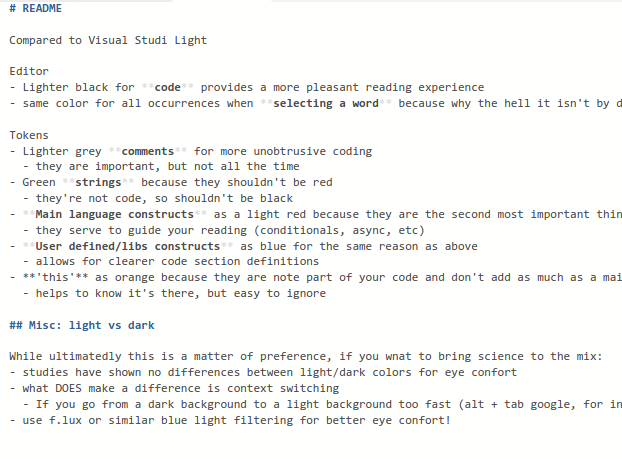
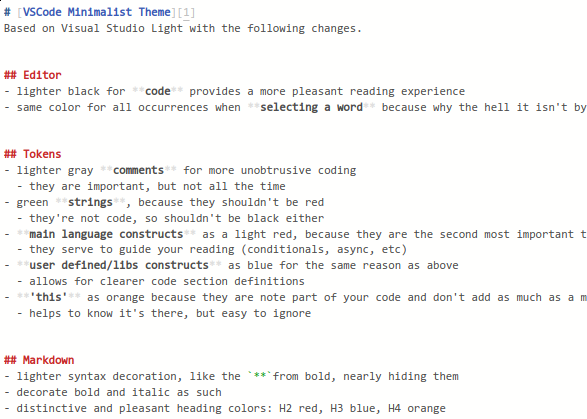
v1.2

Changed region(s): [[0.0, 0.0, 1.0, 0.9928]]

diff --git a/README.md b/README.md
@@ -1,38 +1,91 @@
-A minimalist theme for VS Code. You can find it in the [marketplace](https://marketplace.visualstudio.com/items?itemName=icetbr.vscode-theme-minimalist).
 
+# [VSCode Minimalist Theme][1]
 Based on Visual Studio Light with the following changes.
 
-### Editor
-- Lighter black for **code** provides a more pleasant reading experience
+
+## Editor
+- lighter black for **code** provides a more pleasant reading experience
 - same color for all occurrences when **selecting a word** because why the hell it isn't by default?
 
-### Tokens
-- Lighter gray **comments** for more unobtrusive coding
+
+## Tokens
+- lighter gray **comments** for more unobtrusive coding
   - they are important, but not all the time
-- Green **strings**, because they shouldn't be red
+- green **strings**, because they shouldn't be red
   - they're not code, so shouldn't be black either
-- **Main language constructs** as a light red, because they are the second most important thing in your code (second to the code itself)
+- **main language constructs** as a light red, because they are the second most important thing in your code (second to the code itself)
   - they serve to guide your reading (conditionals, async, etc)
-- **User defined/libs constructs** as blue for the same reason as above
+- **user defined/libs constructs** as blue for the same reason as above
   - allows for clearer code section definitions
-- **'this'** as orange because they are note part of your code and don't add as much as a main language construct
+- `this` as orange because they are note part of your code and don't add as much as a main language construct
   - helps to know it's there, but easy to ignore
 
-## ScreenShot
+
+## Markdown
+- lighter syntax decoration, like the `**`from bold, **nearly** hiding them
+- decorate bold and italic as such
+- distinctive and pleasant heading colors: H2 red, H3 blue, H4 orange
+  - these suit me because of my colorful `.mds` with many code blocks, but I'm still thinking about them
+
+
+## Screenshots
 
 ### Javascript
-![ScreenShot](https://raw.githubusercontent.com/icetbr/vscode-theme-minimalist/master/static/sampleJs.png)
+![Javascript screenshot](static/sampleJs.png)
 
 ### Markdown
-![ScreenShot](https://raw.githubusercontent.com/icetbr/vscode-theme-minimalist/master/static/sampleMd.png)
+![Markdown screenShot](static/sampleMd.png)
 
 ### HTML
-![ScreenShot](https://raw.githubusercontent.com/icetbr/vscode-theme-minimalist/master/static/sampleHtml.png)
+![ScreenShot](static/sampleHtml.png)
 
-## Misc: light vs dark
 
-While ultimately this is a matter of preference, if you want to bring science to the mix:
-- studies have shown no differences between light/dark colors for eye comfort
-- what DOES make a difference is context switching
-  - If you go from a dark background to a light background too fast (`alt + tab Google`, for instance), your pupils will have to dilate to adapt to the new background, making your eyes tired faster
-- use f.lux or similar blue light filtering software
+## Light vs Dark
+- studies have shown **no differences** between light/dark colors for eye comfort
+- what DOES make a difference is **context switching**
+  - If you go from a dark background to a light background too fast (`alt + tab Google`, for instance), your **pupils** will have to **dilate** to adapt to the new background, making your eyes tired faster
+- use `f.lux` or similar blue light filtering software
+- work in a well lit environment, based on my experience I would rate:
+  - 10 natural light from windows
+  - 8 overhead light
+  - 5 ScreenBar (don't buy Baseus, go for Xiaomi or Benq)
+  - 4 strong bias light (I never had a good one)
+  - 3 desk light
+  - 0 no light, monitor only
+- use white light (~6000k) by day and warm light (~3000) by night
+- https://www.wired.co.uk/article/dark-mode-chrome-android-ios-science
+- https://www.androidauthority.com/dark-mode-1046425/
+
+
+## How to customize it
+The following can be applied to `settings.json`.
+
+If your inline code blocks have a frame, it's because of an extension. Use this to disable:
+
+```json
+"markdown.extension.syntax.decorations": false,
+```
+
+If you dislike any of the changes, you can override them. See the [source](themes/Minimalist-color-theme.json) code for scope rules, or type `CTRL + ALT + SHIFT + I` to toggle inspect mode, and that will give you the `scope` name you need to customize.
+
+To revert the H2 heading color for instance:
+
+```json
+"editor.tokenColorCustomizations": {
+    "[Minimalist]": {
+        "textMateRules": [
+          {
+            "name": "Markdown h2 heading",
+            "scope": "heading.2.markdown punctuation.definition.heading.markdown, heading.2.markdown entity.name.section.markdown, heading.2.markdown string.other.link.title.markdown",
+            "settings": {
+              "foreground": "#365f91",
+            }
+          },
+        ]
+    }
+}
+```
+
+<!-- explain overhead light position -->
+
+[1]: https://marketplace.visualstudio.com/items?itemName=icetbr.vscode-theme-minimalist

diff --git a/vsc-extension-quickstart.md b/vsc-extension-quickstart.md
@@ -23,3 +23,8 @@ To learn more about scopes and how they're used, check out the [theme](https://c
 ## Install your extension
 * To start using your extension with Visual Studio Code copy it into the `<user home>/.vscode/extensions` folder and restart Code.
 * To share your extension with the world, read on https://code.visualstudio.com/docs about publishing an extension.
+
+npm install -g vsce
+vsce login icetbr
+vsce package
+vsce publish

diff --git a/CHANGELOG.md b/CHANGELOG.md
@@ -1,7 +1,10 @@
 # Change Log
-All notable changes to the "minimalist" extension will be documented in this file.
 
-Check [Keep a Changelog](http://keepachangelog.com/) for recommendations on how to structure this file.
+## [1.2.0] 2021-10-28
+- more infos on README
+- markdown color changes
+- the code organization
 
-## [Unreleased]
+
+## [1.0.0] 2018-06-17
 - Initial release
